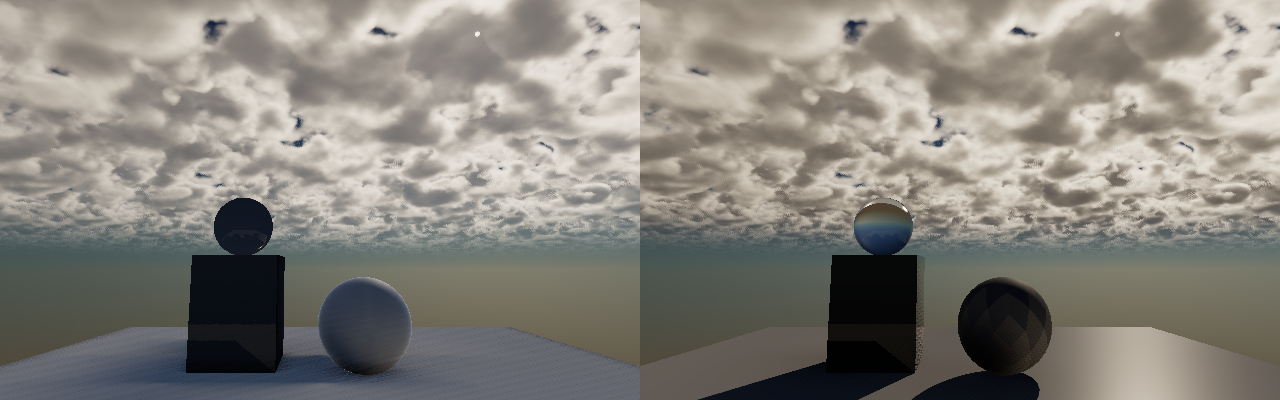
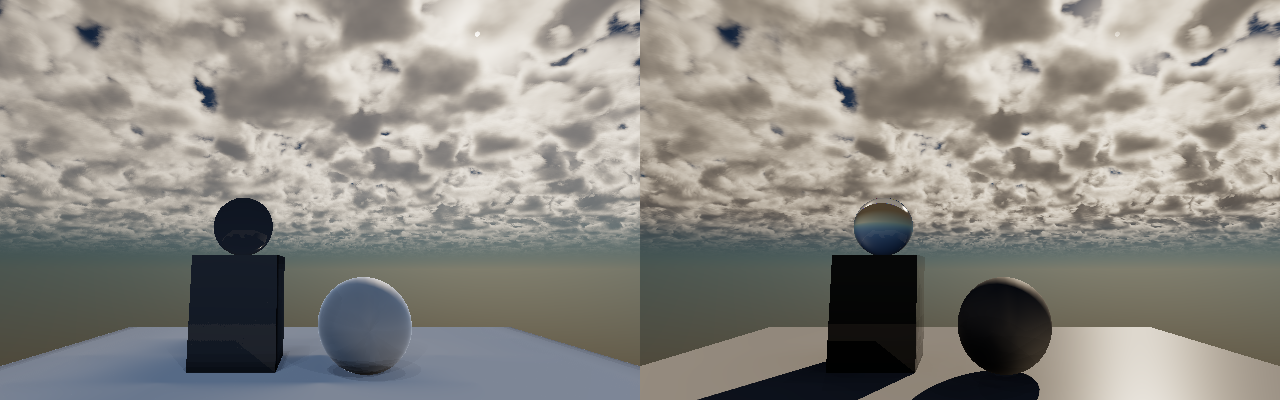
Eliminate shadow acne, receiver dither, and cloud noise across CPU and GPU pipelines

diff --git a/Engine/GeometricRaster/DirectLighting/SolarShadowSequence.cpp b/Engine/GeometricRaster/DirectLighting/SolarShadowSequence.cpp
@@ -153,6 +153,8 @@ struct CascadeSampleOutcome
 [[nodiscard]] CascadeSampleOutcome SampleCascadePcf3x3(
     const OrthographicShadowCascade& Cascade,
     Mathematics::Axis3D              BiasedWorldPos,
+    Mathematics::Axis3D              SurfaceNormal,
+    float                            NdotL,
     float                            SlopeScale) noexcept
 {
     CascadeSampleOutcome Out {};
@@ -167,6 +169,10 @@ struct CascadeSampleOutcome
     const int BaseY    = static_cast<int>(std::floor(CY));
     const int MaxIdx   = static_cast<int>(Cascade.ResolutionTexels) - 1;
 
+    const float InvNdotL = 1.0f / std::max(0.08f, NdotL);
+    const float SlopeU   = Mathematics::EvaluateDot(Cascade.LightRightAxis, SurfaceNormal) * InvNdotL * TexelM;
+    const float SlopeV   = Mathematics::EvaluateDot(Cascade.LightUpAxis, SurfaceNormal) * InvNdotL * TexelM;
+
     constexpr float KernelW[3] { 0.25f, 0.50f, 0.25f };
     float VisSum = 0.0f;
     float BlkSum = 0.0f;
@@ -180,7 +186,8 @@ struct CascadeSampleOutcome
             const int TX = std::clamp(BaseX + DX, 0, MaxIdx);
             const float W = KernelW[DY + 1] * KernelW[DX + 1];
             const float ClosestD = Cascade.ClosestLightDepth[static_cast<std::size_t>(TY) * Cascade.ResolutionTexels + static_cast<uint32_t>(TX)];
-            const float Diff     = RecD - ClosestD;
+            const float PlaneExpectedD = RecD + (static_cast<float>(DX) * SlopeU - static_cast<float>(DY) * SlopeV);
+            const float Diff     = PlaneExpectedD - ClosestD;
             if (Diff > Bias)
             {
                 BlkSum += Diff * W;
@@ -200,6 +207,8 @@ struct CascadeSampleOutcome
 [[nodiscard]] CascadeSampleOutcome SampleCascadePcss(
     const OrthographicShadowCascade& Cascade,
     Mathematics::Axis3D              BiasedWorldPos,
+    Mathematics::Axis3D              SurfaceNormal,
+    float                            NdotL,
     float                            SlopeScale,
     float                            TanSunRadius,
     uint32_t                         RotationSeed) noexcept
@@ -216,6 +225,11 @@ struct CascadeSampleOutcome
     const float RotPhi = static_cast<float>(RotationSeed & 0xFFFFu) * (Constants::TauFloat / 65536.0f);
     constexpr float GoldenAngle = 2.39996323f;
 
+    // Receiver-plane slope correction eliminates planar self-shadow acne & false blocker dithering
+    const float InvNdotL = 1.0f / std::max(0.08f, NdotL);
+    const float SlopeU   = Mathematics::EvaluateDot(Cascade.LightRightAxis, SurfaceNormal) * InvNdotL * TexelM;
+    const float SlopeV   = Mathematics::EvaluateDot(Cascade.LightUpAxis, SurfaceNormal) * InvNdotL * TexelM;
+
     // 1. Vogel Blocker Search over light frustum cone
     constexpr uint32_t SearchTaps = 12u;
     const float SearchRadiusPx    = std::clamp((TanSunRadius * 3.5f) / TexelM, 2.0f, 18.0f);
@@ -225,10 +239,13 @@ struct CascadeSampleOutcome
     {
         const float R   = std::sqrt((static_cast<float>(Tap) + 0.5f) / static_cast<float>(SearchTaps)) * SearchRadiusPx;
         const float Ang = static_cast<float>(Tap) * GoldenAngle + RotPhi;
-        const int TX    = std::clamp(static_cast<int>(std::floor(CX + R * std::cos(Ang))), 0, MaxIdx);
-        const int TY    = std::clamp(static_cast<int>(std::floor(CY + R * std::sin(Ang))), 0, MaxIdx);
+        const float dx  = R * std::cos(Ang);
+        const float dy  = R * std::sin(Ang);
+        const int TX    = std::clamp(static_cast<int>(std::floor(CX + dx)), 0, MaxIdx);
+        const int TY    = std::clamp(static_cast<int>(std::floor(CY + dy)), 0, MaxIdx);
         const float D   = Cascade.ClosestLightDepth[static_cast<std::size_t>(TY) * Cascade.ResolutionTexels + static_cast<uint32_t>(TX)];
-        const float Diff = RecD - D;
+        const float PlaneExpectedD = RecD + (dx * SlopeU - dy * SlopeV);
+        const float Diff = PlaneExpectedD - D;
         if (Diff > Bias)
         {
             BlockerSum += Diff;
@@ -257,11 +274,14 @@ struct CascadeSampleOutcome
     {
         const float R   = std::sqrt((static_cast<float>(Tap) + 0.5f) / static_cast<float>(PcfTaps)) * FilterRadiusPx;
         const float Ang = static_cast<float>(Tap) * GoldenAngle + RotPhi + 0.71f;
-        const int TX    = std::clamp(static_cast<int>(std::floor(CX + R * std::cos(Ang))), 0, MaxIdx);
-        const int TY    = std::clamp(static_cast<int>(std::floor(CY + R * std::sin(Ang))), 0, MaxIdx);
+        const float dx  = R * std::cos(Ang);
+        const float dy  = R * std::sin(Ang);
+        const int TX    = std::clamp(static_cast<int>(std::floor(CX + dx)), 0, MaxIdx);
+        const int TY    = std::clamp(static_cast<int>(std::floor(CY + dy)), 0, MaxIdx);
         const float D   = Cascade.ClosestLightDepth[static_cast<std::size_t>(TY) * Cascade.ResolutionTexels + static_cast<uint32_t>(TX)];
+        const float PlaneExpectedD = RecD + (dx * SlopeU - dy * SlopeV);
         const float AdaptiveBias = Bias + TexelM * 0.16f * R;
-        if ((RecD - D) <= AdaptiveBias)
+        if ((PlaneExpectedD - D) <= AdaptiveBias)
         {
             LitSum += 1.0f;
         }
@@ -273,6 +293,8 @@ struct CascadeSampleOutcome
 [[nodiscard]] CascadeSampleOutcome SampleCascadeShadowRayMarch(
     const OrthographicShadowCascade& Cascade,
     Mathematics::Axis3D              BiasedWorldPos,
+    Mathematics::Axis3D              SurfaceNormal,
+    float                            NdotL,
     float                            SlopeScale,
     float                            TanSunRadius,
     uint32_t                         RotationSeed) noexcept
@@ -288,6 +310,10 @@ struct CascadeSampleOutcome
     const float Bias   = TexelM * (1.25f + 0.85f * SlopeScale);
     const float RotPhi = static_cast<float>(RotationSeed & 0xFFFFu) * (Constants::TauFloat / 65536.0f);
     constexpr float GoldenAngle = 2.39996323f;
+
+    const float InvNdotL = 1.0f / std::max(0.08f, NdotL);
+    const float SlopeU   = Mathematics::EvaluateDot(Cascade.LightRightAxis, SurfaceNormal) * InvNdotL * TexelM;
+    const float SlopeV   = Mathematics::EvaluateDot(Cascade.LightUpAxis, SurfaceNormal) * InvNdotL * TexelM;
 
     // EEVEE-Next Quadratic Shadow Map Ray March (SMRT): 4 rays x 14 quadratic steps with occlusion slope tracking
     constexpr uint32_t SmrtRays  = 4u;
@@ -314,16 +340,19 @@ struct CascadeSampleOutcome
         {
             const float TNorm = static_cast<float>(Step) / static_cast<float>(SmrtSteps);
             const float TQuad = TNorm * TNorm;
-            const int TX      = std::clamp(static_cast<int>(std::floor(CX + DirTX * TQuad)), 0, MaxIdx);
-            const int TY      = std::clamp(static_cast<int>(std::floor(CY + DirTY * TQuad)), 0, MaxIdx);
-            const float RayD      = RecD - StepZWorld * static_cast<float>(Step * Step);
+            const float dx    = DirTX * TQuad;
+            const float dy    = DirTY * TQuad;
+            const int TX      = std::clamp(static_cast<int>(std::floor(CX + dx)), 0, MaxIdx);
+            const int TY      = std::clamp(static_cast<int>(std::floor(CY + dy)), 0, MaxIdx);
+            const float PlaneExpectedD = RecD + (dx * SlopeU - dy * SlopeV);
+            const float RayD      = PlaneExpectedD - StepZWorld * static_cast<float>(Step * Step);
             const float CascadeD  = Cascade.ClosestLightDepth[static_cast<std::size_t>(TY) * Cascade.ResolutionTexels + static_cast<uint32_t>(TX)];
             const float Diff      = RayD - CascadeD;
 
             if (Diff > Bias && Diff < ThicknessM)
             {
                 Occluded    = true;
-                BestHitDist = std::max(0.02f, RecD - CascadeD);
+                BestHitDist = std::max(0.02f, PlaneExpectedD - CascadeD);
                 break;
             }
         }
@@ -442,10 +471,9 @@ SolarShadowFieldResult SolarShadowSequence::EvaluateSolarShadowFieldWithAlgorith
             {
                 // Deterministic Vogel Solar Disc Raytrace against 4-Wide WideBoundingTree!
                 const uint32_t RayCount = std::clamp(Sun.RtxSamplesPerPixel, 1u, 32u);
-                const float    RotPhi   = static_cast<float>(Seed & 0xFFFFu) * (Constants::TauFloat / 65536.0f);
                 constexpr float GoldenAngle = 2.39996323f;
 
-                const Mathematics::Axis3D RayOrigin = Hit.WorldPosition + Hit.TangentFrame.NormalZ * 1.5e-3f;
+                const Mathematics::Axis3D RayOrigin = Hit.WorldPosition + Hit.TangentFrame.NormalZ * 8.0e-3f;
                 float    UnoccludedSum     = 0.0f;
                 float    HarmonicInvDistS  = 0.0f;
                 uint32_t OccludedHits      = 0u;
@@ -453,7 +481,7 @@ SolarShadowFieldResult SolarShadowSequence::EvaluateSolarShadowFieldWithAlgorith
                 for (uint32_t RIdx = 0u; RIdx < RayCount; ++RIdx)
                 {
                     const float DiscR = std::sqrt((static_cast<float>(RIdx) + 0.5f) / static_cast<float>(RayCount)) * TanSunRadius;
-                    const float Angle = static_cast<float>(RIdx) * GoldenAngle + RotPhi;
+                    const float Angle = static_cast<float>(RIdx) * GoldenAngle;
                     const Mathematics::Axis3D JitteredSun = Mathematics::NormalizeAxis(
                         SunDir + DiscTangentU * (DiscR * std::cos(Angle)) + DiscTangentV * (DiscR * std::sin(Angle)),
                         SunDir);
@@ -461,7 +489,7 @@ SolarShadowFieldResult SolarShadowSequence::EvaluateSolarShadowFieldWithAlgorith
                     SpatialAcceleration::RaySegmentQuery ShadowRay {};
                     ShadowRay.Origin          = RayOrigin;
                     ShadowRay.UnitDirection   = JitteredSun;
-                    ShadowRay.MinimumDistance = 1.0e-3f;
+                    ShadowRay.MinimumDistance = 5.0e-3f;
                     ShadowRay.MaximumDistance = 150.0f;
 
                     const auto RayHit = SceneTree.TraceClosestRay(ShadowRay, false);
@@ -487,11 +515,11 @@ SolarShadowFieldResult SolarShadowSequence::EvaluateSolarShadowFieldWithAlgorith
                 CascadeSampleOutcome ClipSample {};
                 if (OptionalFineClip != nullptr)
                 {
-                    ClipSample = SampleCascadePcf3x3(*OptionalFineClip, BiasedOrigin, SlopeScale);
+                    ClipSample = SampleCascadePcf3x3(*OptionalFineClip, BiasedOrigin, Hit.TangentFrame.NormalZ, NdotL, SlopeScale);
                 }
                 if (!ClipSample.InsideCascade && OptionalCoarseClip != nullptr)
                 {
-                    ClipSample = SampleCascadePcf3x3(*OptionalCoarseClip, BiasedOrigin, SlopeScale);
+                    ClipSample = SampleCascadePcf3x3(*OptionalCoarseClip, BiasedOrigin, Hit.TangentFrame.NormalZ, NdotL, SlopeScale);
                 }
                 Result.RawVisibility[Off]         = ClipSample.InsideCascade ? ClipSample.Visibility : 1.0f;
                 Result.BlockerDistanceMeters[Off] = ClipSample.BlockerDistanceM;
@@ -501,11 +529,11 @@ SolarShadowFieldResult SolarShadowSequence::EvaluateSolarShadowFieldWithAlgorith
                 CascadeSampleOutcome ClipSample {};
                 if (OptionalFineClip != nullptr)
                 {
-                    ClipSample = SampleCascadeShadowRayMarch(*OptionalFineClip, BiasedOrigin, SlopeScale, TanSunRadius, Seed);
+                    ClipSample = SampleCascadeShadowRayMarch(*OptionalFineClip, BiasedOrigin, Hit.TangentFrame.NormalZ, NdotL, SlopeScale, TanSunRadius, Seed);
                 }
                 if (!ClipSample.InsideCascade && OptionalCoarseClip != nullptr)
                 {
-                    ClipSample = SampleCascadeShadowRayMarch(*OptionalCoarseClip, BiasedOrigin, SlopeScale, TanSunRadius, Seed);
+                    ClipSample = SampleCascadeShadowRayMarch(*OptionalCoarseClip, BiasedOrigin, Hit.TangentFrame.NormalZ, NdotL, SlopeScale, TanSunRadius, Seed);
                 }
                 Result.RawVisibility[Off]         = ClipSample.InsideCascade ? ClipSample.Visibility : 1.0f;
                 Result.BlockerDistanceMeters[Off] = ClipSample.BlockerDistanceM;
@@ -516,11 +544,11 @@ SolarShadowFieldResult SolarShadowSequence::EvaluateSolarShadowFieldWithAlgorith
                 CascadeSampleOutcome ClipSample {};
                 if (OptionalFineClip != nullptr)
                 {
-                    ClipSample = SampleCascadePcss(*OptionalFineClip, BiasedOrigin, SlopeScale, TanSunRadius, Seed);
+                    ClipSample = SampleCascadePcss(*OptionalFineClip, BiasedOrigin, Hit.TangentFrame.NormalZ, NdotL, SlopeScale, TanSunRadius, Seed);
                 }
                 if (!ClipSample.InsideCascade && OptionalCoarseClip != nullptr)
                 {
-                    ClipSample = SampleCascadePcss(*OptionalCoarseClip, BiasedOrigin, SlopeScale, TanSunRadius, Seed);
+                    ClipSample = SampleCascadePcss(*OptionalCoarseClip, BiasedOrigin, Hit.TangentFrame.NormalZ, NdotL, SlopeScale, TanSunRadius, Seed);
                 }
 
                 float FinalVis = ClipSample.InsideCascade ? ClipSample.Visibility : 1.0f;

diff --git a/Engine/GeometricRaster/Atmosphere/VolumetricCloudSequence.cpp b/Engine/GeometricRaster/Atmosphere/VolumetricCloudSequence.cpp
@@ -30,7 +30,7 @@ constexpr float ViewerAltM = 100.0f;
 
 [[nodiscard]] float HashInt3(int32_t IX, int32_t IY, int32_t IZ) noexcept
 {
-    uint32_t N = static_cast<uint32_t>(IX * 374761393 + IY * 668265263 + IZ * 2147483647);
+    uint32_t N = static_cast<uint32_t>(IX) * 73856093u ^ static_cast<uint32_t>(IY) * 19349663u ^ static_cast<uint32_t>(IZ) * 83492791u;
     N = (N ^ (N >> 13u)) * 1274126177u;
     N = N ^ (N >> 16u);
     return static_cast<float>(N) * (1.0f / 4294967296.0f);
@@ -44,9 +44,10 @@ constexpr float ViewerAltM = 100.0f;
     const float FX   = X - static_cast<float>(IX);
     const float FY   = Y - static_cast<float>(IY);
     const float FZ   = Z - static_cast<float>(IZ);
-    const float UX   = FX * FX * (3.0f - 2.0f * FX);
-    const float UY   = FY * FY * (3.0f - 2.0f * FY);
-    const float UZ   = FZ * FZ * (3.0f - 2.0f * FZ);
+    // Quintic polynomial interpolation (C2 continuous - zero 1st & 2nd boundary derivatives)
+    const float UX   = FX * FX * FX * (FX * (FX * 6.0f - 15.0f) + 10.0f);
+    const float UY   = FY * FY * FY * (FY * (FY * 6.0f - 15.0f) + 10.0f);
+    const float UZ   = FZ * FZ * FZ * (FZ * (FZ * 6.0f - 15.0f) + 10.0f);
 
     const auto Mix = [](float A, float B, float T) noexcept -> float { return A + (B - A) * T; };
     const float N000 = HashInt3(IX, IY, IZ),     N100 = HashInt3(IX + 1, IY, IZ);
@@ -155,13 +156,15 @@ constexpr float ViewerAltM = 100.0f;
 
     if (FormationIndex == 6u) // Lenticular: large organic wind-aligned stacked laminar mountain-wave lenses
     {
-        // Anisotropic macro envelope stretched along wind axis + smooth vertical laminar pancakes
-        const float MacroLobes = SmoothLatticeNoise3(WX * FScale * 0.22f, WY * FScale * 0.55f, 1.7f);
-        const float SubtleWarp = SmoothLatticeNoise3(WX * FScale * 0.65f, WY * FScale * 0.65f, WZ * FScale * 0.25f);
-        const float LaminarSlices = std::pow(0.5f + 0.5f * std::sin(H * Constants::PiFloat * 5.0f - 0.6f), 1.35f);
-        const float LensMask = SmoothStep(0.46f, 0.76f, MacroLobes + (SubtleWarp - 0.5f) * 0.22f);
-        NNorm   = std::clamp(LensMask * (0.45f + 0.55f * LaminarSlices), 0.0f, 1.0f);
-        Profile = SmoothStep(0.04f, 0.22f, H) * (1.0f - SmoothStep(0.75f, 0.96f, H));
+        // Anisotropic smooth organic envelope stretched along wind axis + aerodynamic lens curvature
+        const float MacroLobes = SmoothLatticeNoise3(WX * FScale * 0.22f, WY * FScale * 0.45f, 1.7f);
+        const float SubtleWarp = SmoothLatticeNoise3(WX * FScale * 0.65f, WY * FScale * 0.65f, WZ * FScale * 0.35f);
+        const float CenterDist = std::sqrt(std::pow(WX * FScale * 0.35f, 2.0f) + std::pow(WY * FScale * 0.65f, 2.0f));
+        const float LensShape  = SmoothStep(1.2f, 0.2f, CenterDist) * (1.0f - 4.0f * std::pow(H - 0.5f, 2.0f));
+        const float Laminar    = 0.70f + 0.30f * std::sin(H * Constants::PiFloat * 2.0f);
+        const float LensMask   = SmoothStep(0.38f, 0.72f, MacroLobes * 0.6f + LensShape * 0.4f + (SubtleWarp - 0.5f) * 0.15f);
+        NNorm   = std::clamp(LensMask * Laminar, 0.0f, 1.0f);
+        Profile = SmoothStep(0.04f, 0.25f, H) * (1.0f - SmoothStep(0.75f, 0.96f, H));
     }
     else if (FormationIndex == 7u) // Mammatus: dramatic cellular hanging pouches under storm deck
     {
@@ -175,14 +178,14 @@ constexpr float ViewerAltM = 100.0f;
     }
     else if (FormationIndex == 8u) // KelvinHelmholtz: localized breaking wave-crest curls
     {
-        const float MacroBand = SmoothStep(0.40f, 0.72f, SmoothLatticeNoise3(WX * FScale * 0.28f, WY * FScale * 0.28f, 3.1f));
-        const float CurlSkew  = 280.0f * std::sin(H * Constants::PiFloat) + 190.0f * H * H;
+        const float MacroBand = SmoothStep(0.38f, 0.68f, SmoothLatticeNoise3(WX * FScale * 0.25f, WY * FScale * 0.25f, 3.1f));
+        const float CurlSkew  = 160.0f * std::sin(H * Constants::PiFloat) + 80.0f * H;
         const float CurlX     = WX + CurlSkew;
-        const float WavePhase = CurlX * FScale * 4.4f + SmoothLatticeNoise3(WX * FScale * 0.9f, WY * FScale * 0.9f, 0.4f) * 2.4f;
-        const float Crest     = 0.5f + 0.5f * std::sin(WavePhase + H * 3.6f);
-        const float BreakCurl = SmoothStep(0.32f, 0.86f, Crest) * SmoothStep(0.12f, 0.65f, H + 0.24f * Crest);
-        const float Billow    = CloudFbm3(CurlX * FScale * 1.05f, WY * FScale * 0.85f, WZ * FScale * 1.4f, HighOctFade);
-        NNorm = std::clamp(MacroBand * (BreakCurl * 0.68f + ((Billow - 0.26f) / 0.46f) * 0.42f), 0.0f, 1.0f);
+        const float WavePhase = CurlX * FScale * 2.2f + SmoothLatticeNoise3(WX * FScale * 0.6f, WY * FScale * 0.6f, 0.4f) * 1.5f;
+        const float Crest     = 0.5f + 0.5f * std::sin(WavePhase + H * 2.8f);
+        const float BreakCurl = SmoothStep(0.30f, 0.80f, Crest) * SmoothStep(0.15f, 0.60f, H + 0.20f * Crest);
+        const float Billow    = CloudFbm3(CurlX * FScale * 0.85f, WY * FScale * 0.75f, WZ * FScale * 1.1f, HighOctFade);
+        NNorm = std::clamp(MacroBand * (BreakCurl * 0.55f + ((Billow - 0.25f) / 0.45f) * 0.50f), 0.0f, 1.0f);
     }
     else if (FormationIndex == 9u) // Asperitas: undulating gravity-wave undersides
     {
@@ -195,20 +198,20 @@ constexpr float ViewerAltM = 100.0f;
     }
     else if (FormationIndex == 10u) // Nacreous: smooth stratospheric mother-of-pearl ribbons
     {
-        const float MacroEnv = SmoothStep(0.36f, 0.72f, SmoothLatticeNoise3(WX * FScale * 0.35f, WY * FScale * 0.35f, 2.3f));
-        const float Ribbon   = 0.5f + 0.5f * std::sin((WX * 0.42f + WY * 0.88f) * FScale * 3.2f +
-                                                      SmoothLatticeNoise3(WX * FScale * 0.8f, WY * FScale * 0.8f, 0.5f) * 3.5f);
-        const float Silk     = SmoothLatticeNoise3(WX * FScale * 1.2f, WY * FScale * 1.2f, WZ * FScale);
-        NNorm = std::clamp(MacroEnv * (Ribbon * 0.68f + Silk * 0.38f), 0.0f, 1.0f);
+        const float MacroEnv = SmoothStep(0.32f, 0.68f, SmoothLatticeNoise3(WX * FScale * 0.28f, WY * FScale * 0.28f, 2.3f));
+        const float Ribbon   = 0.5f + 0.5f * std::sin((WX * 0.35f + WY * 0.75f) * FScale * 2.4f +
+                                                      SmoothLatticeNoise3(WX * FScale * 0.6f, WY * FScale * 0.6f, 0.5f) * 2.5f);
+        const float Silk     = CloudFbm3(WX * FScale * 0.85f, WY * FScale * 0.85f, WZ * FScale * 0.95f, HighOctFade);
+        NNorm = std::clamp(MacroEnv * (Ribbon * 0.52f + Silk * 0.48f), 0.0f, 1.0f);
     }
     else if (FormationIndex == 11u) // Pyrocumulus: isolated towering cauliflower thermal plumes
     {
-        const float PlumeColumn = SmoothLatticeNoise3(WX * FScale * 0.36f, WY * FScale * 0.36f, 4.7f);
-        const float PlumeMask   = SmoothStep(0.46f, 0.74f, PlumeColumn + H * 0.10f);
-        const float Base        = CloudFbm3(WX * FScale * 0.90f, WY * FScale * 0.90f, WZ * FScale * 1.15f, HighOctFade);
-        const float BillowRidge = 1.0f - std::abs(SmoothLatticeNoise3(WX * FScale * 2.1f, WY * FScale * 2.1f, WZ * FScale * 2.3f) * 2.0f - 1.0f);
-        NNorm    = std::clamp(PlumeMask * (((Base - 0.20f) / 0.44f) * 0.68f + BillowRidge * 0.38f), 0.0f, 1.0f);
-        ShapeCov = std::clamp(Cov + 0.14f * H, 0.0f, 1.0f);
+        const float PlumeColumn = SmoothLatticeNoise3(WX * FScale * 0.32f, WY * FScale * 0.32f, 4.7f);
+        const float PlumeMask   = SmoothStep(0.42f, 0.70f, PlumeColumn + H * 0.12f);
+        const float Base        = CloudFbm3(WX * FScale * 0.80f, WY * FScale * 0.80f, WZ * FScale * 1.05f, HighOctFade);
+        const float Billow      = CloudFbm3(WX * FScale * 1.6f, WY * FScale * 1.6f, WZ * FScale * 1.7f, HighOctFade);
+        NNorm    = std::clamp(PlumeMask * (((Base - 0.22f) / 0.44f) * 0.65f + ((Billow - 0.25f) / 0.45f) * 0.35f), 0.0f, 1.0f);
+        ShapeCov = std::clamp(Cov + 0.12f * H, 0.0f, 1.0f);
     }
     else // Classic 0..5 formations (Stratus, Stratocumulus, Cumulus, Cumulonimbus, Altostratus, Cirrus)
     {
@@ -357,11 +360,8 @@ Mathematics::LinearRGB VolumetricCloudSequence::EvaluateVolumetricClouds(
     OutTransmittance = 1.0f;
     Mathematics::LinearRGB TotalRad { 0.0f, 0.0f, 0.0f };
 
-    const float Ign = (PixelJitter01 >= 0.0f)
-        ? std::clamp(PixelJitter01, 0.0f, 1.0f)
-        : Frac(52.9829189f * Frac(RayDirection.X * 193.713f + RayDirection.Y * 371.419f + RayDirection.Z * 547.823f));
-    // Soft centered jitter eliminates contour slice banding without creating 1px salt-and-pepper stipple
-    const float Jitter = 0.5f + 0.72f * (Ign - 0.5f);
+    // Deterministic centered midpoint sampling eliminates salt-and-pepper pixel noise
+    const float Jitter = (PixelJitter01 >= 0.0f) ? (0.5f + 0.25f * (PixelJitter01 - 0.5f)) : 0.5f;
 
     const float BearRad = Deck.WindBearingDegrees * Constants::DegToRadFloat;
     const float WindVX  = std::cos(BearRad) * Deck.WindSpeedMetersPerSecond;

diff --git a/Engine/GeometricRaster/DirectLighting/LinearCosineLightIntegration.cpp b/Engine/GeometricRaster/DirectLighting/LinearCosineLightIntegration.cpp
@@ -361,16 +361,14 @@ DirectLightingFrameOutput LinearCosineLightIntegration::EvaluateDirectLightingFr
 
             // Evaluate 2-Scale Physical Ambient Occlusion (0.25 m micro-contact + 2.20 m chassis underbody)
             const uint32_t AoRays     = std::clamp(AoSettings.RaysPerPixel, 2u, 32u);
-            const uint32_t Seed       = PX * 1973u + PY * 9277u + 89173u;
-            const float    RotOffset  = static_cast<float>(Seed & 0xFFFFu) * (Constants::TauFloat / 65536.0f);
             float ContactUnoccluded   = 0.0f;
             float ChassisUnoccluded   = 0.0f;
-            const Mathematics::Axis3D AoOrigin = Hit.WorldPosition + Hit.TangentFrame.NormalZ * 2.0e-3f;
+            const Mathematics::Axis3D AoOrigin = Hit.WorldPosition + Hit.TangentFrame.NormalZ * 8.0e-3f;
 
             for (uint32_t RIdx = 0u; RIdx < AoRays; ++RIdx)
             {
                 const float U1    = (static_cast<float>(RIdx) + 0.5f) / static_cast<float>(AoRays);
-                const float Phi   = static_cast<float>(RIdx) * 2.39996323f + RotOffset;
+                const float Phi   = static_cast<float>(RIdx) * 2.39996323f;
                 const float SinT  = std::sqrt(U1);
                 const float CosT  = std::sqrt(std::max(0.0f, 1.0f - U1));
                 const Mathematics::Axis3D LocalRay { SinT * std::cos(Phi), SinT * std::sin(Phi), CosT };
@@ -379,7 +377,7 @@ DirectLightingFrameOutput LinearCosineLightIntegration::EvaluateDirectLightingFr
                 SpatialAcceleration::RaySegmentQuery AoQuery {};
                 AoQuery.Origin          = AoOrigin;
                 AoQuery.UnitDirection   = WorldRay;
-                AoQuery.MinimumDistance = 1.5e-3f;
+                AoQuery.MinimumDistance = 6.0e-3f;
                 AoQuery.MaximumDistance = AoSettings.ChassisRadiusMeters;
 
                 const auto AoHit = SceneTree.TraceClosestRay(AoQuery, false);

diff --git a/Engine/GeometricRaster/GlobalIllumination/VulkanWorldRenderSequence.cpp b/Engine/GeometricRaster/GlobalIllumination/VulkanWorldRenderSequence.cpp
@@ -1262,6 +1262,15 @@ bool VulkanWorldRenderSequence::RenderWorldViewportWithEngine(
     Uniforms.SolarIrradianceTier[2] = EffectiveSunIrrad.B;
     Uniforms.SolarIrradianceTier[3] = (Config.Engine == WorldRenderEngine::DdgiRaytracing && LatticeReady) ? 1.0f : 0.0f;
 
+    WorldSceneSpecification LocalScene = Scene;
+    LocalScene.Sun.DirectionToSun = SunDir;
+    LocalScene.Sun.SolarIrradiance = EffectiveSunIrrad;
+    const float DotSun = Mathematics::EvaluateDot(CachedSunCascade.LightForwardAxis, SunDir * -1.0f);
+    if (DotSun < 0.999f)
+    {
+        UploadSolarCascadeRadiosity(LocalScene);
+    }
+
     Uniforms.SkyRadianceBvhCount[0] = Scene.SkyRadiance.R;
     Uniforms.SkyRadianceBvhCount[1] = Scene.SkyRadiance.G;
     Uniforms.SkyRadianceBvhCount[2] = Scene.SkyRadiance.B;
